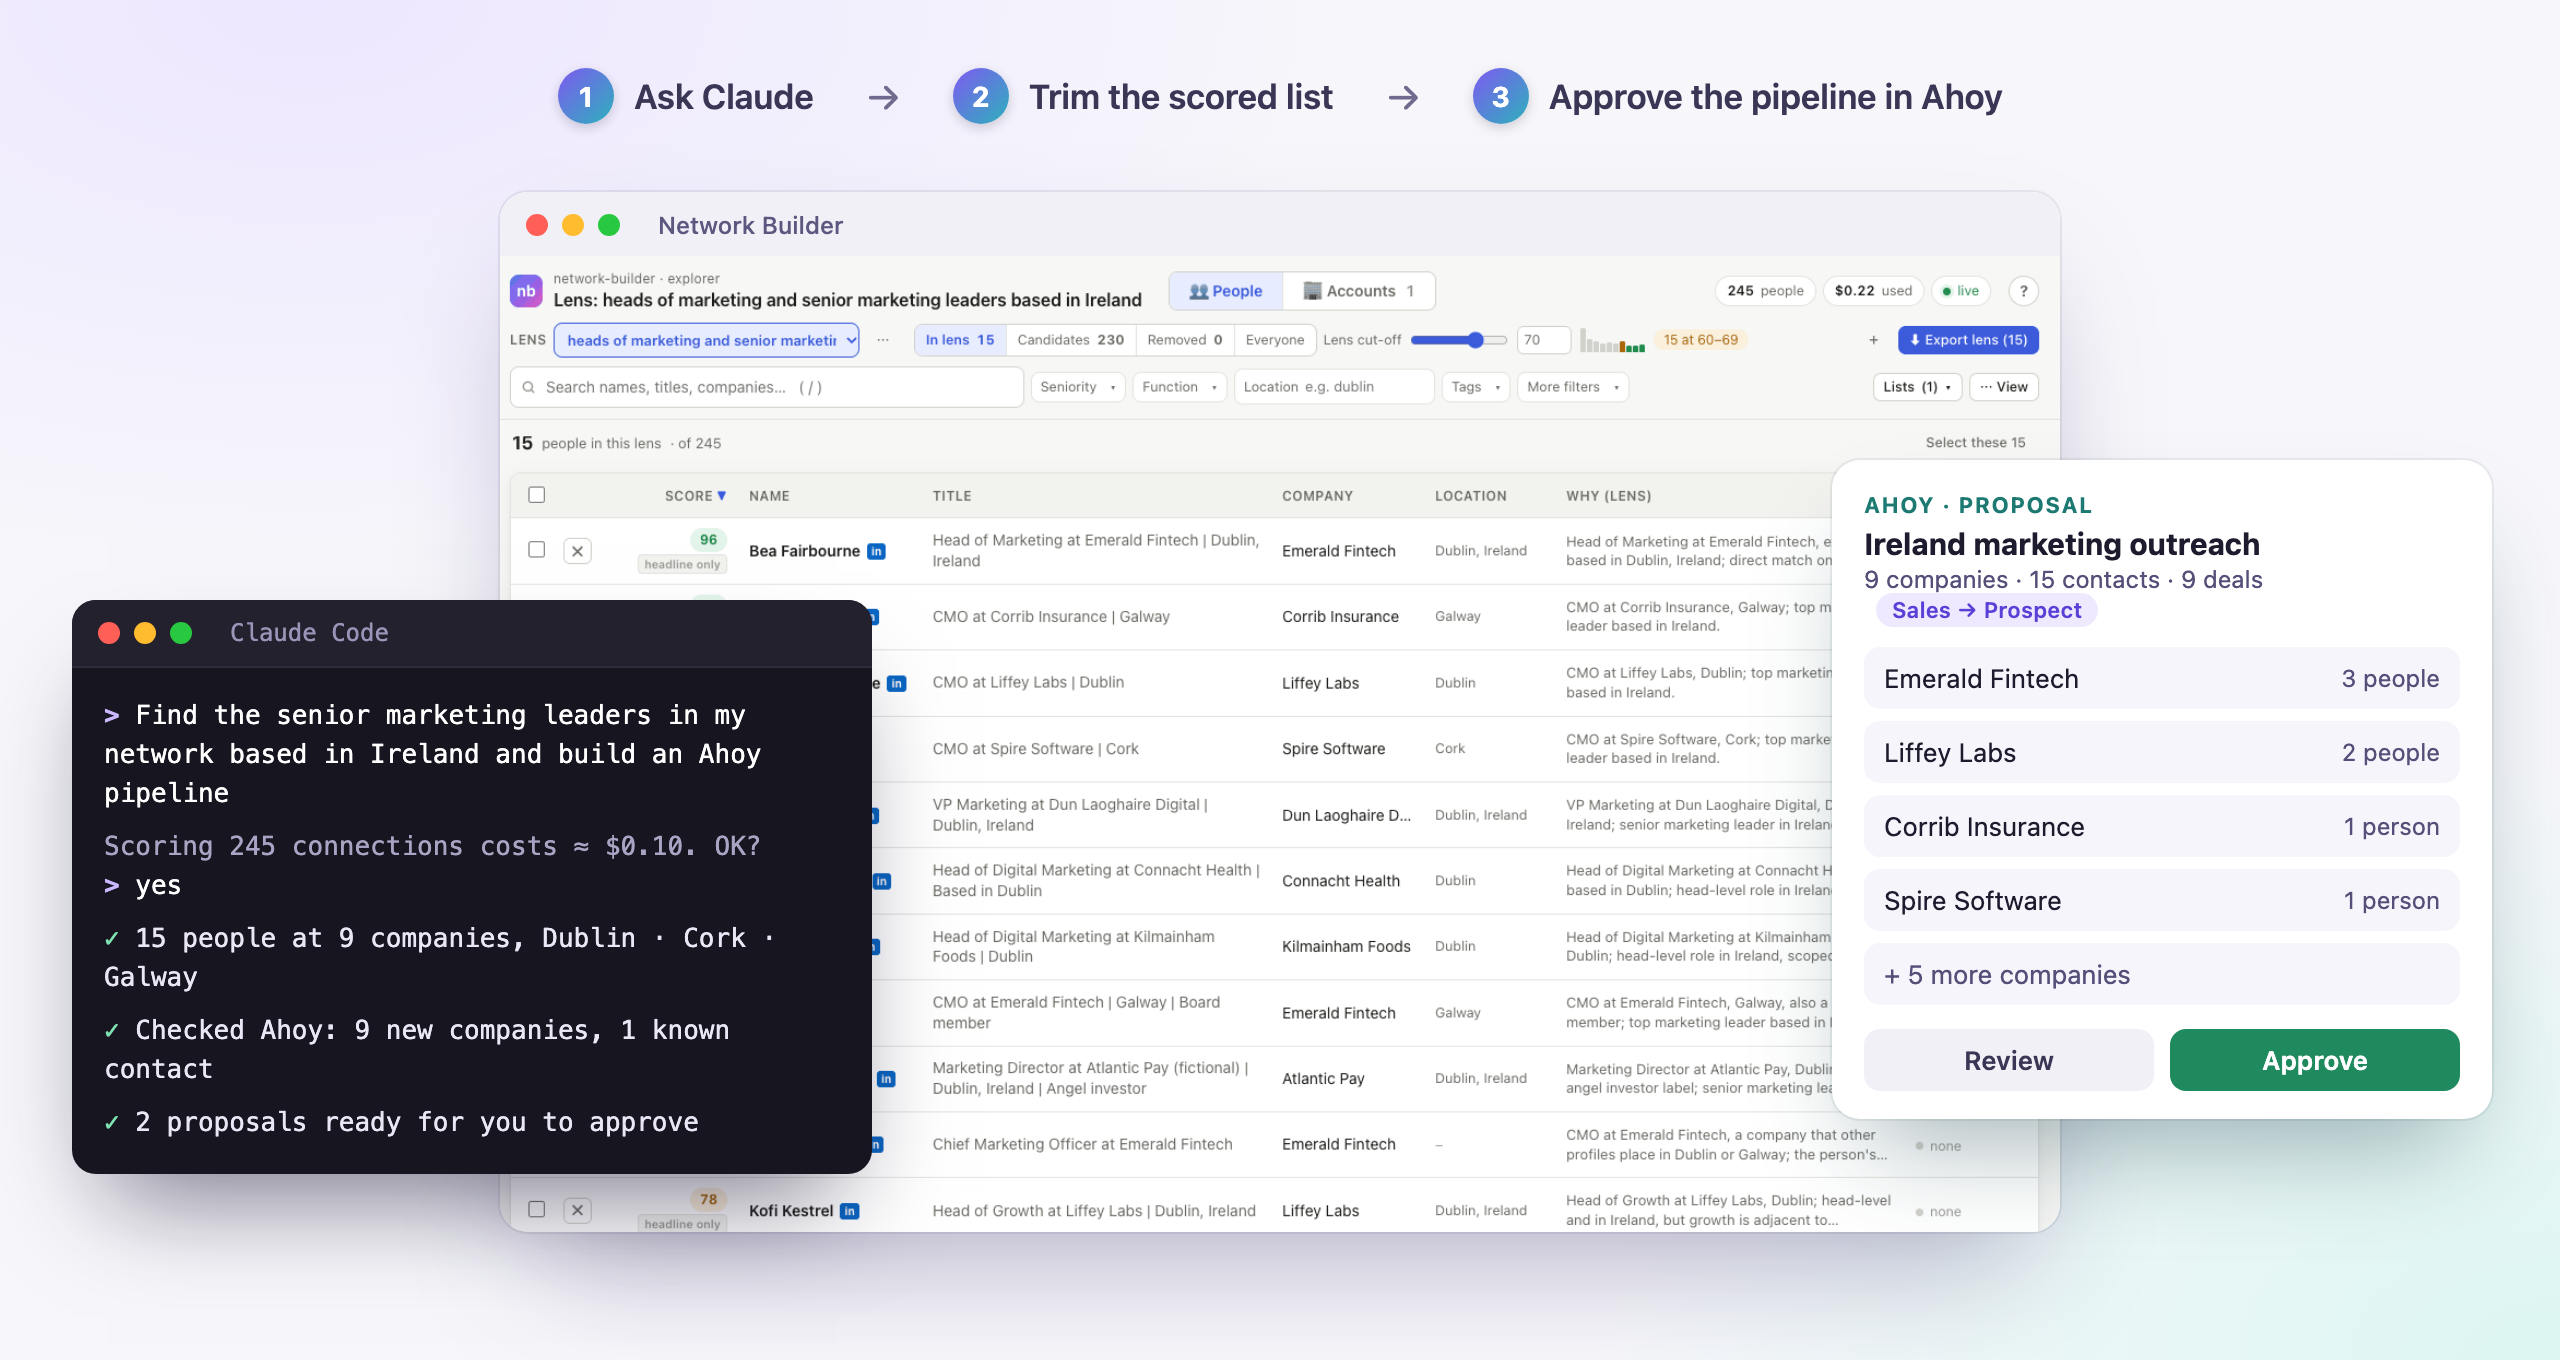
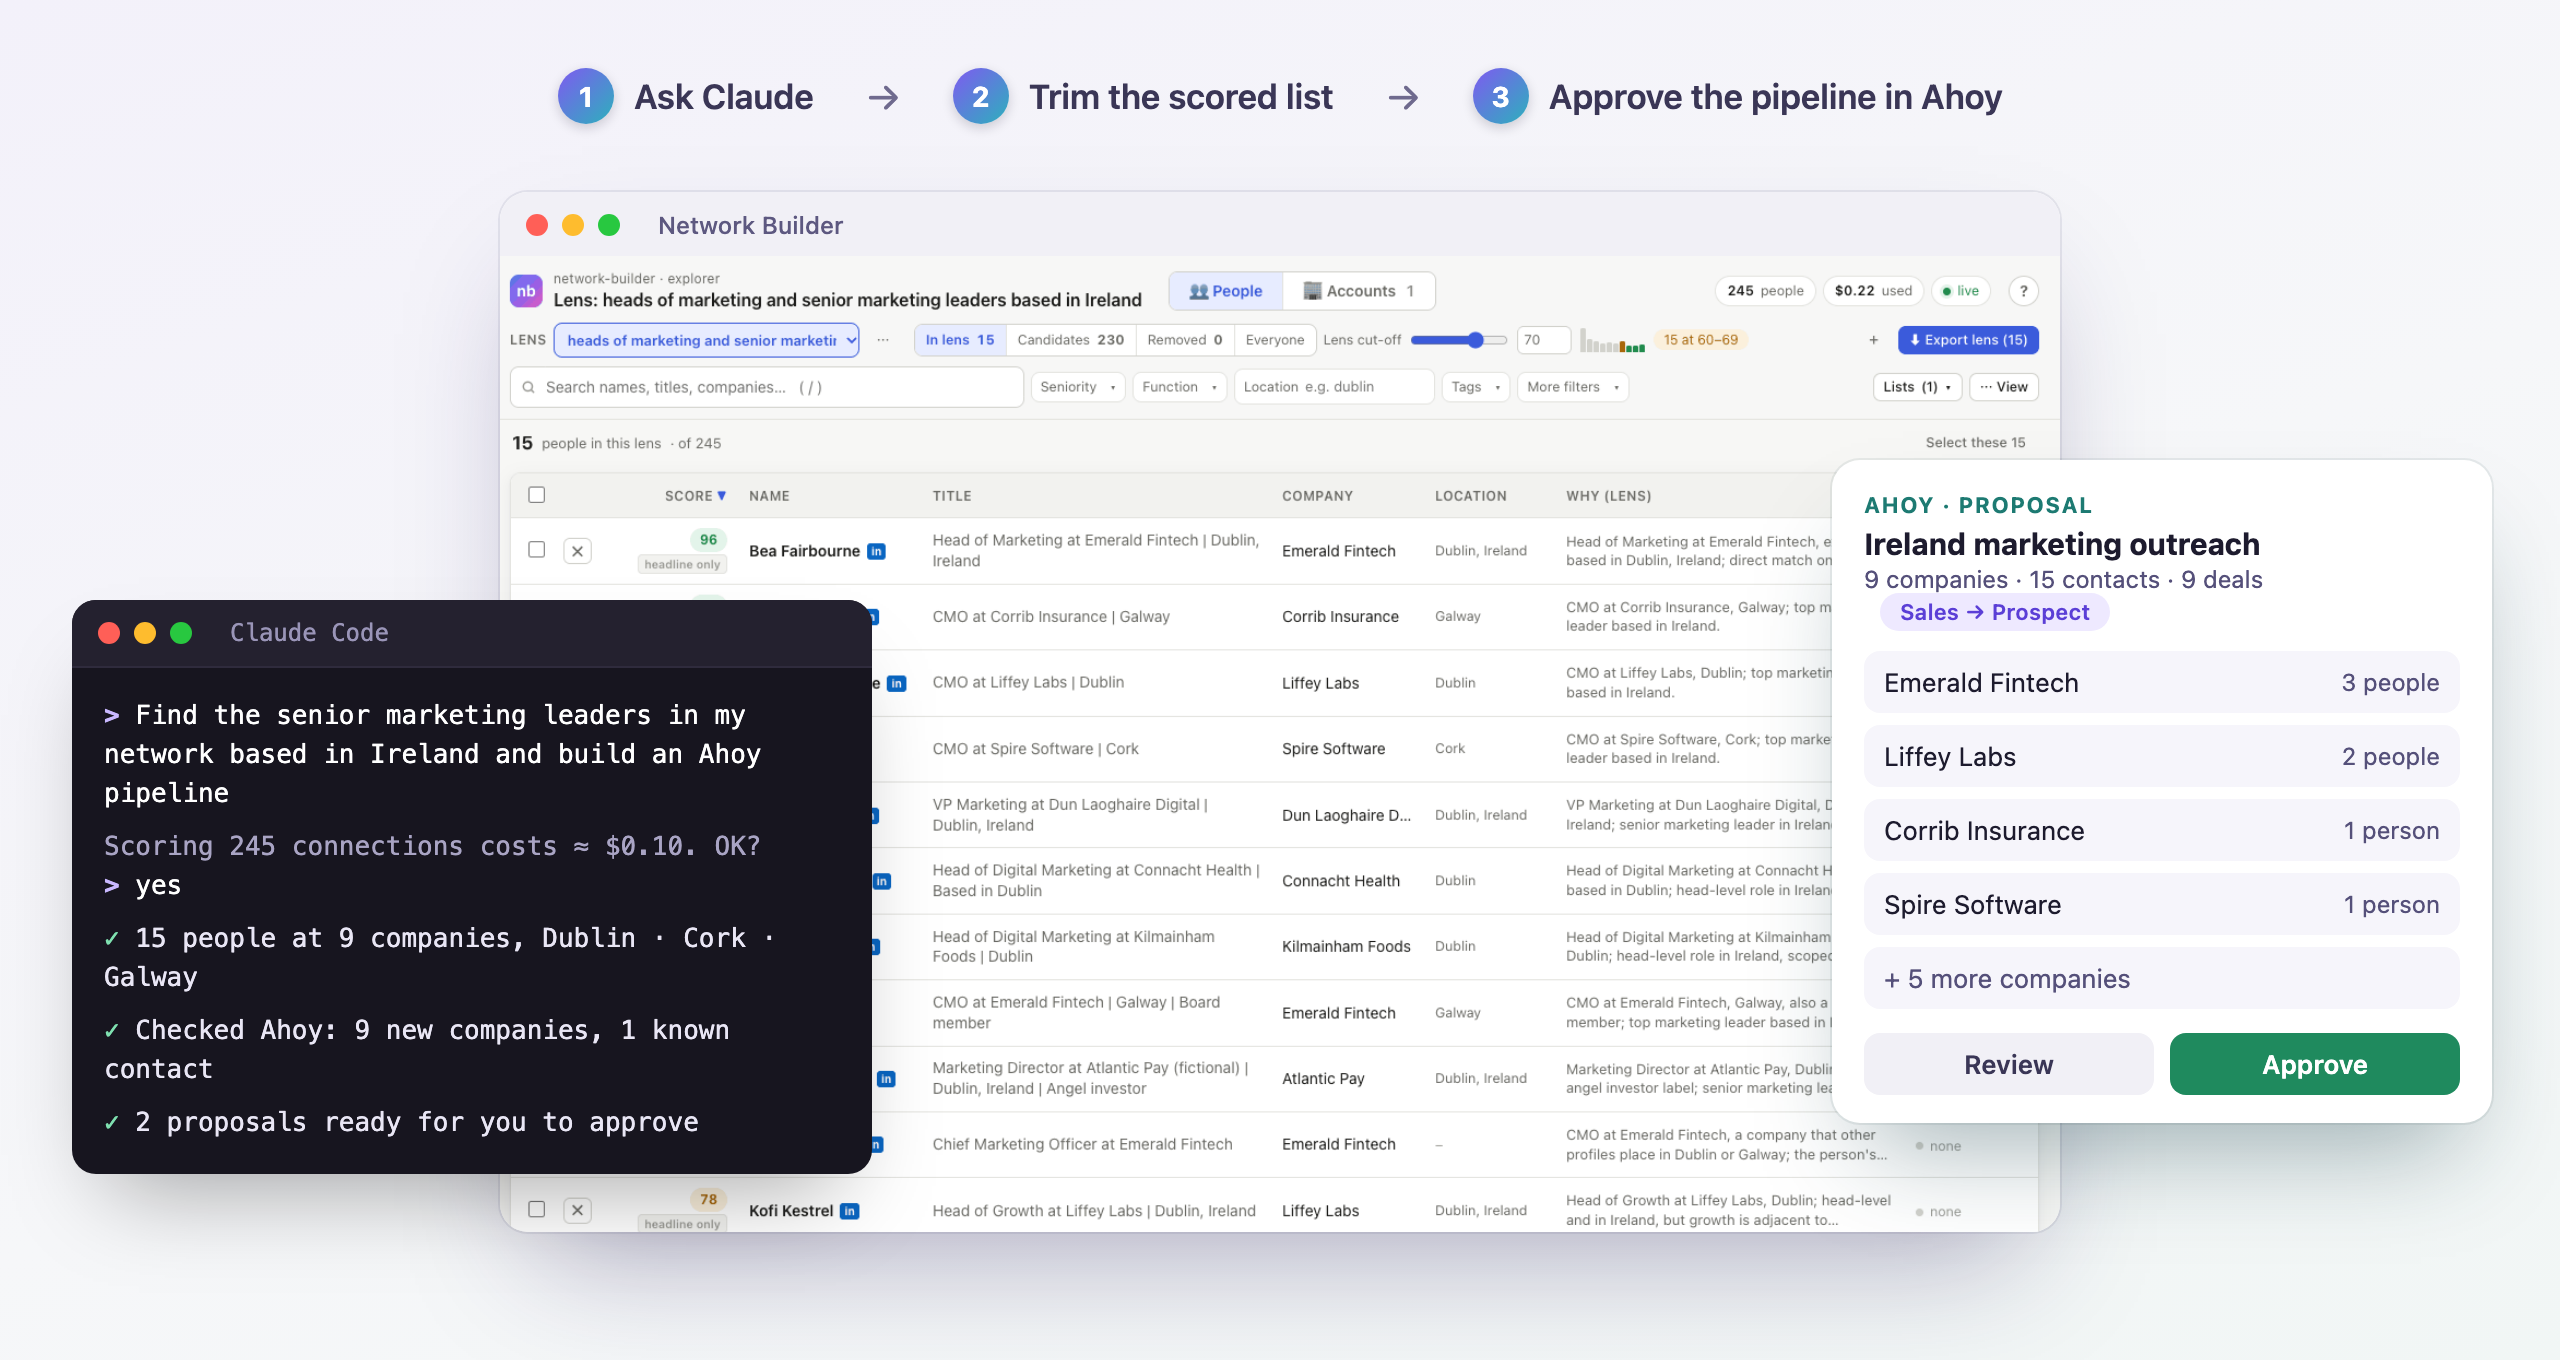
Hero: neutral shadows, plain background, roomier stage pill
Claude-Session: https://claude.ai/code/session_01ScEuduXTNxQ8dXMuaivGeE

diff --git a/docs/hero/hero.html b/docs/hero/hero.html
@@ -8,10 +8,7 @@
   html, body { width: 1280px; height: 680px; overflow: hidden; }
   body {
     font-family: -apple-system, BlinkMacSystemFont, "SF Pro Text", "Segoe UI", Inter, sans-serif;
-    background:
-      radial-gradient(900px 500px at 12% 0%, #ede7ff 0%, transparent 60%),
-      radial-gradient(800px 500px at 100% 100%, #dcf6f1 0%, transparent 60%),
-      #f7f7fb;
+    background: linear-gradient(160deg, #f3f1fa 0%, #f6f7f9 55%, #f1f6f5 100%);
     color: #1d1b2e;
     position: relative;
   }
@@ -31,7 +28,7 @@
 
   /* Claude Code terminal, bottom left */
   .term { position: absolute; left: 36px; top: 300px; width: 400px; border-radius: 12px; background: #17151f; color: #e9e6f5;
-          font: 13px/1.5 "SF Mono", Menlo, ui-monospace, monospace; box-shadow: 0 28px 50px -18px rgba(15,10,40,.55); overflow: hidden; }
+          font: 13px/1.5 "SF Mono", Menlo, ui-monospace, monospace; box-shadow: 0 24px 44px -18px rgba(0,0,0,.35); overflow: hidden; }
   .term .bar { background: #24212f; border-color: #2f2b3d; }
   .term .bar .t { color: #9a95b8; }
   .term .body { padding: 14px 16px 16px; }
@@ -49,7 +46,7 @@
   .card .sub { font-size: 12px; color: #55507a; margin-bottom: 10px; }
   .deal { display: flex; justify-content: space-between; align-items: center; padding: 8px 10px; border-radius: 8px; background: #f6f5fb; margin-top: 6px; font-size: 13px; }
   .deal span { color: #55507a; font-size: 12px; }
-  .stage { display: inline-block; font-size: 11px; font-weight: 600; color: #5b3fd6; background: #eee9ff; border-radius: 999px; padding: 2px 8px; margin-left: 6px; }
+  .stage { display: inline-block; font-size: 11px; font-weight: 600; color: #5b3fd6; background: #eee9ff; border-radius: 999px; padding: 3px 10px; margin-left: 8px; }
   .btns { display: flex; gap: 8px; margin-top: 12px; }
   .btn { flex: 1; text-align: center; font-size: 13px; font-weight: 600; padding: 8px; border-radius: 8px; }
   .approve { background: #1f8a5e; color: #fff; }
